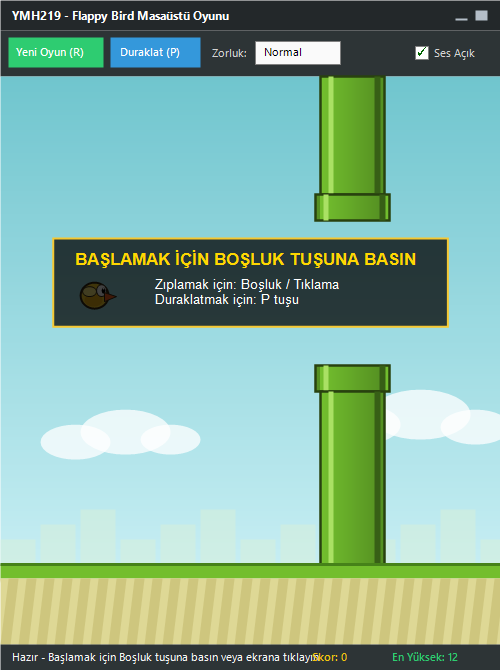
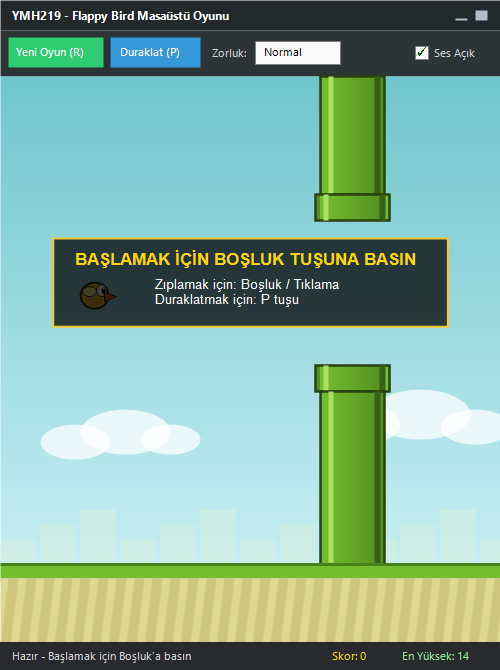
düzeltme: Uygulama ikonu, alt durum çubuğu metni ve temizlenmiş ekran görüntüleri eklendi

Changed region(s): [[0.0, 0.9552, 1.0, 1.0]]

diff --git a/src/FlappyBird/MainForm.cs b/src/FlappyBird/MainForm.cs
@@ -10,6 +10,12 @@ public partial class MainForm : Form
     public MainForm()
     {
         InitializeComponent();
+        try
+        {
+            if (!string.IsNullOrEmpty(Environment.ProcessPath))
+                this.Icon = Icon.ExtractAssociatedIcon(Environment.ProcessPath);
+        }
+        catch { }
 
         // 1. Oyun motorunu çalışma alanının boyutlarıyla başlat
         float canvasW = gameCanvas.ClientSize.Width > 100 ? gameCanvas.ClientSize.Width : 500f;
@@ -143,7 +149,7 @@ public partial class MainForm : Form
         switch (state)
         {
             case GameState.Ready:
-                lblStatusInfo.Text = "Hazır - Başlamak için Boşluk tuşuna basın veya ekrana tıklayın";
+                lblStatusInfo.Text = "Hazır - Başlamak için Boşluk'a basın";
                 btnPause.Text = "Duraklat (P)";
                 break;
             case GameState.Playing:
